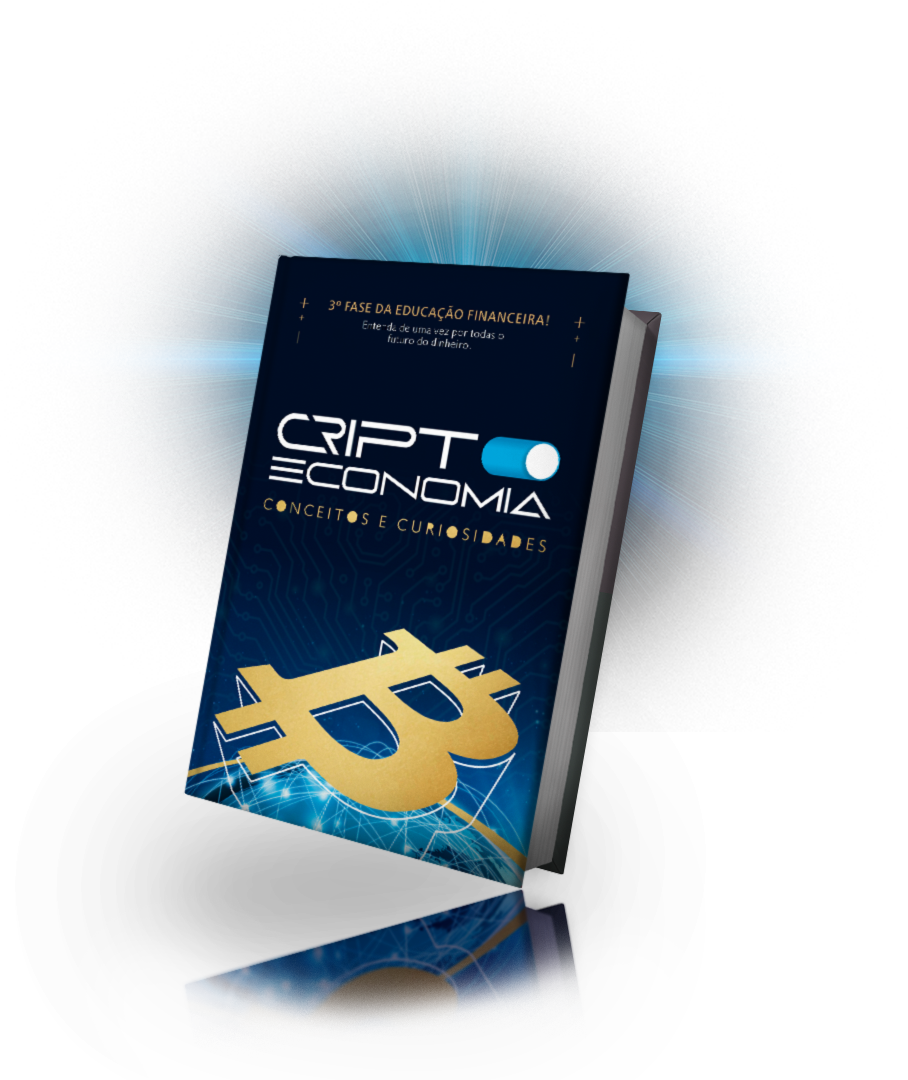
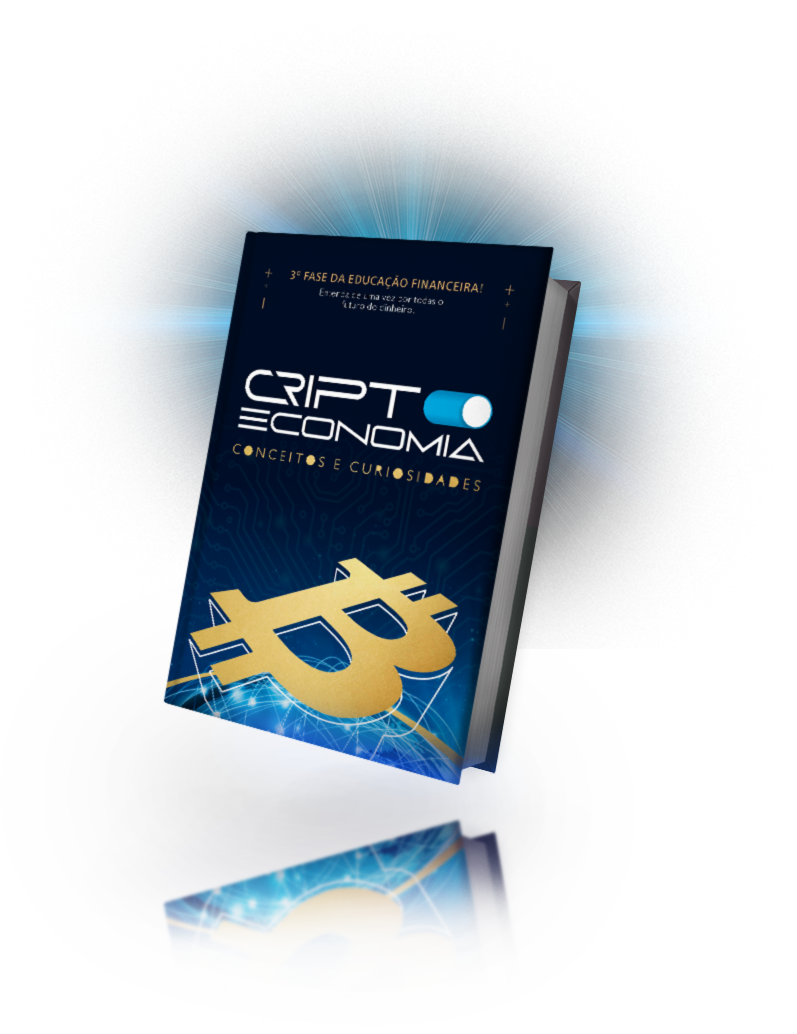
ajuste de posição de divs na pagina principal

Changed region(s): [[0.1807, 0.1857, 0.813, 0.9594]]

diff --git a/src/components/front-page-carousel/Ebook.js b/src/components/front-page-carousel/Ebook.js
@@ -12,7 +12,7 @@ export function Ebook() {
   }, []);
   return (
     <div className="bg-transparent flex justify-between items-center w-screen h-screen sm:px-36 px-7 py-7">
-      <div className="flex flex-col items-center sm:w-1/2 w-1/3 text-left  mr-auto">
+      <div className="flex flex-col items-center sm:w-1/2 w-1/3 text-left sm:mt-20 mr-auto">
         <h1 className="text-gray1 sm:text-2xl text-base text-opacity-70 text-left sm:mb-12 h-36 w-full sm:ml-10">
           <Typewriter
             options={{
